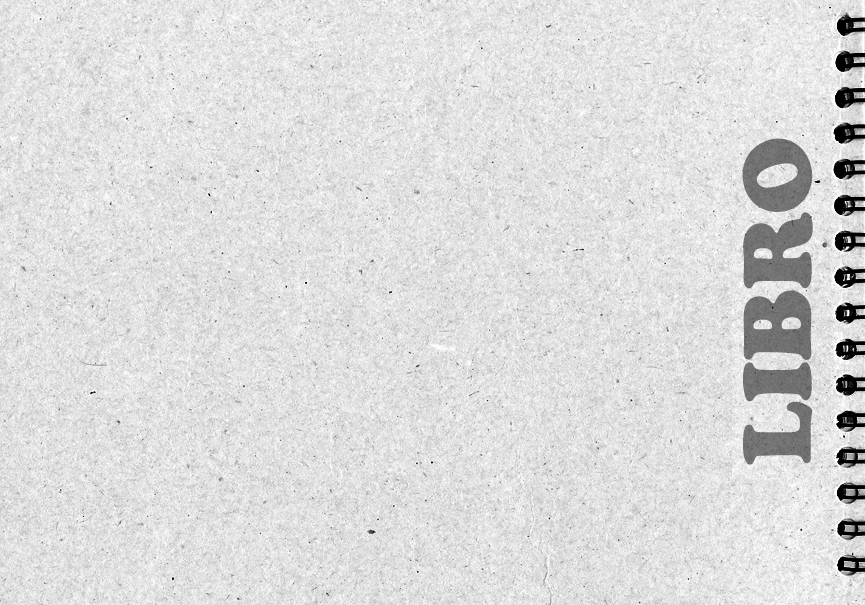
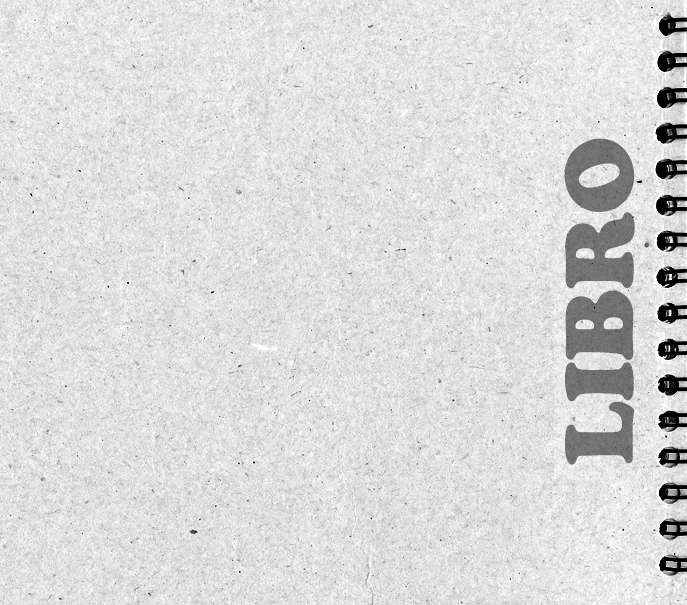
change background

diff --git a/src/view/Main.java b/src/view/Main.java
@@ -20,6 +20,7 @@ import javax.swing.JPanel;
 import javax.swing.UIManager;
 import javax.swing.UnsupportedLookAndFeelException;
 
+import utilities.GUIUtilities;
 import utilities.ControllerUtilities.TipoController;
 import controller.BookController;
 import controller.EarningsController;
@@ -32,7 +33,7 @@ import controller.StatisticsController;
  */
 public class Main implements ActionListener {
 
-    private JPanel cardHolder;
+    private BackgroundPanel cardHolder;
     private final JButton magazzino = new JButton("Magazzino");
     private final JButton ordini = new JButton("Ordini");
     private final JButton fatturato = new JButton("Fatturato e guadagni");
@@ -43,8 +44,9 @@ public class Main implements ActionListener {
     private final StatisticsController statcontroller = new StatisticsController();
     private final FidelityController fidcontroller = new FidelityController();
   
-    public JPanel createCardHolderPanel() {
-        cardHolder = new JPanel(new CardLayout());
+    public BackgroundPanel createCardHolderPanel() {
+        cardHolder = new BackgroundPanel(GUIUtilities.back2);
+        cardHolder.setLayout(new CardLayout());
         cardHolder.setBorder(BorderFactory.createTitledBorder("Scegli l'azione"));
         cardHolder.add(createWareHousePanel(), "Magazzino");
         cardHolder.add(createOrderPanel(), "Ordini");

diff --git a/src/utilities/GUIUtilities.java b/src/utilities/GUIUtilities.java
@@ -71,6 +71,8 @@ public class GUIUtilities {
 	public static Image image = icon.getImage();
 	public static ImageIcon icon2 = createImageIcon("/background.png");
 	public static Image back = icon2.getImage();
+	public static ImageIcon icon3 = createImageIcon("/background2.png");
+	public static Image back2 = icon3.getImage();
 	
 	private static ImageIcon createImageIcon(String path) {
 		java.net.URL imgURL = GUIUtilities.class.getResource(path);
